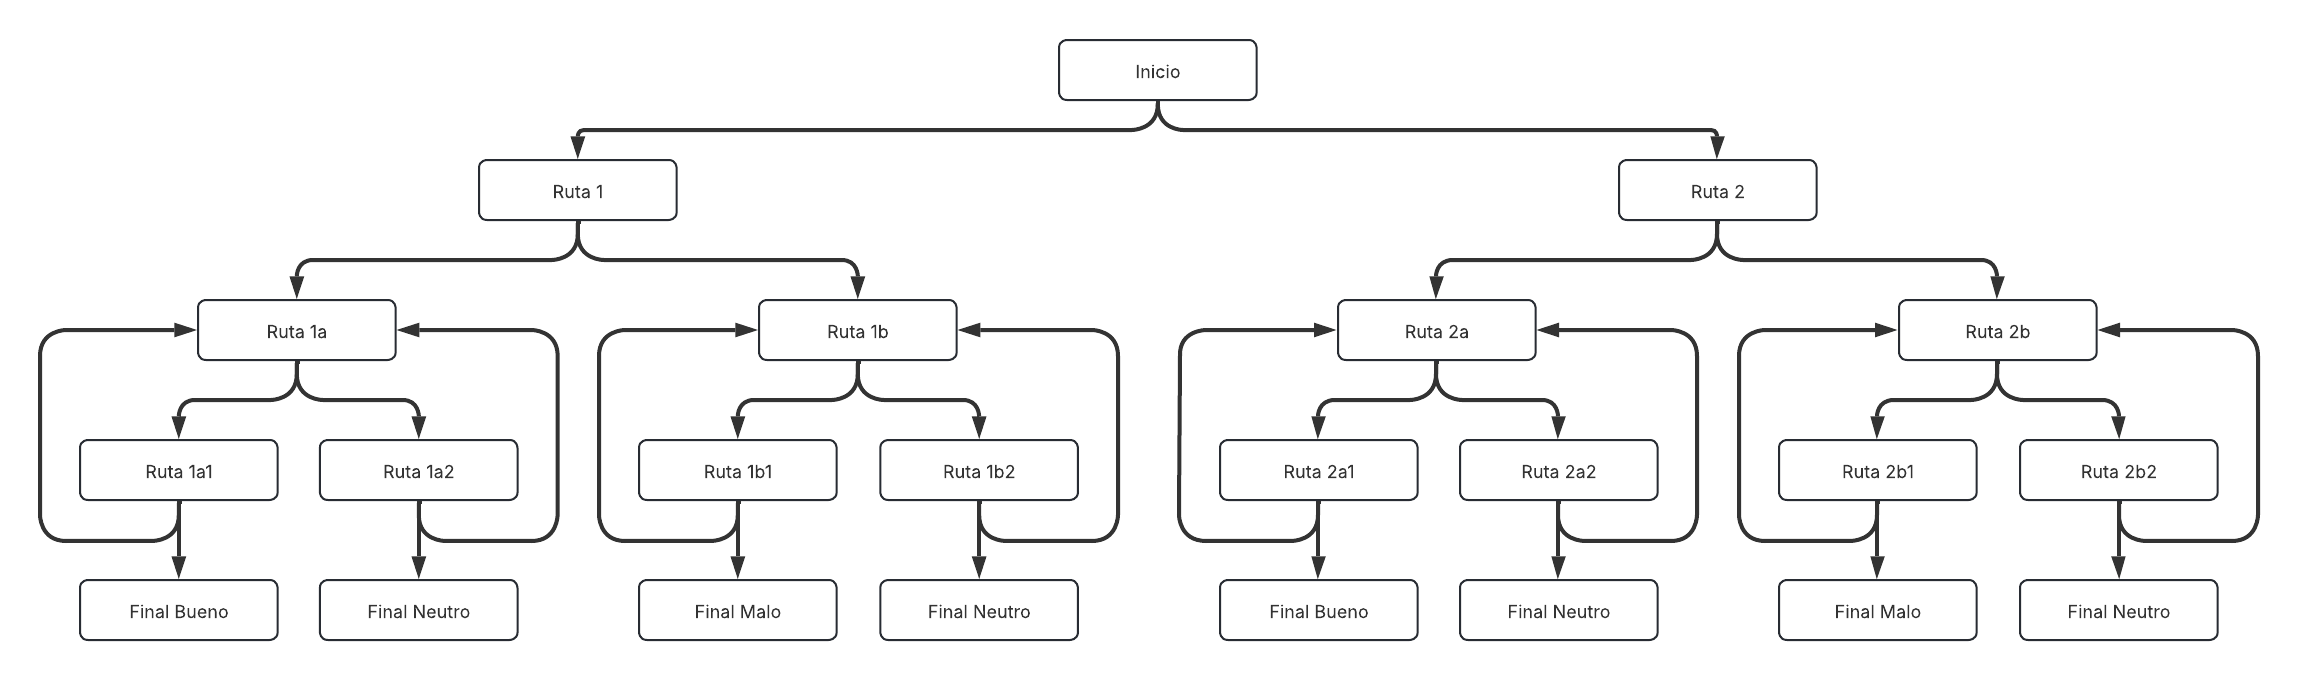
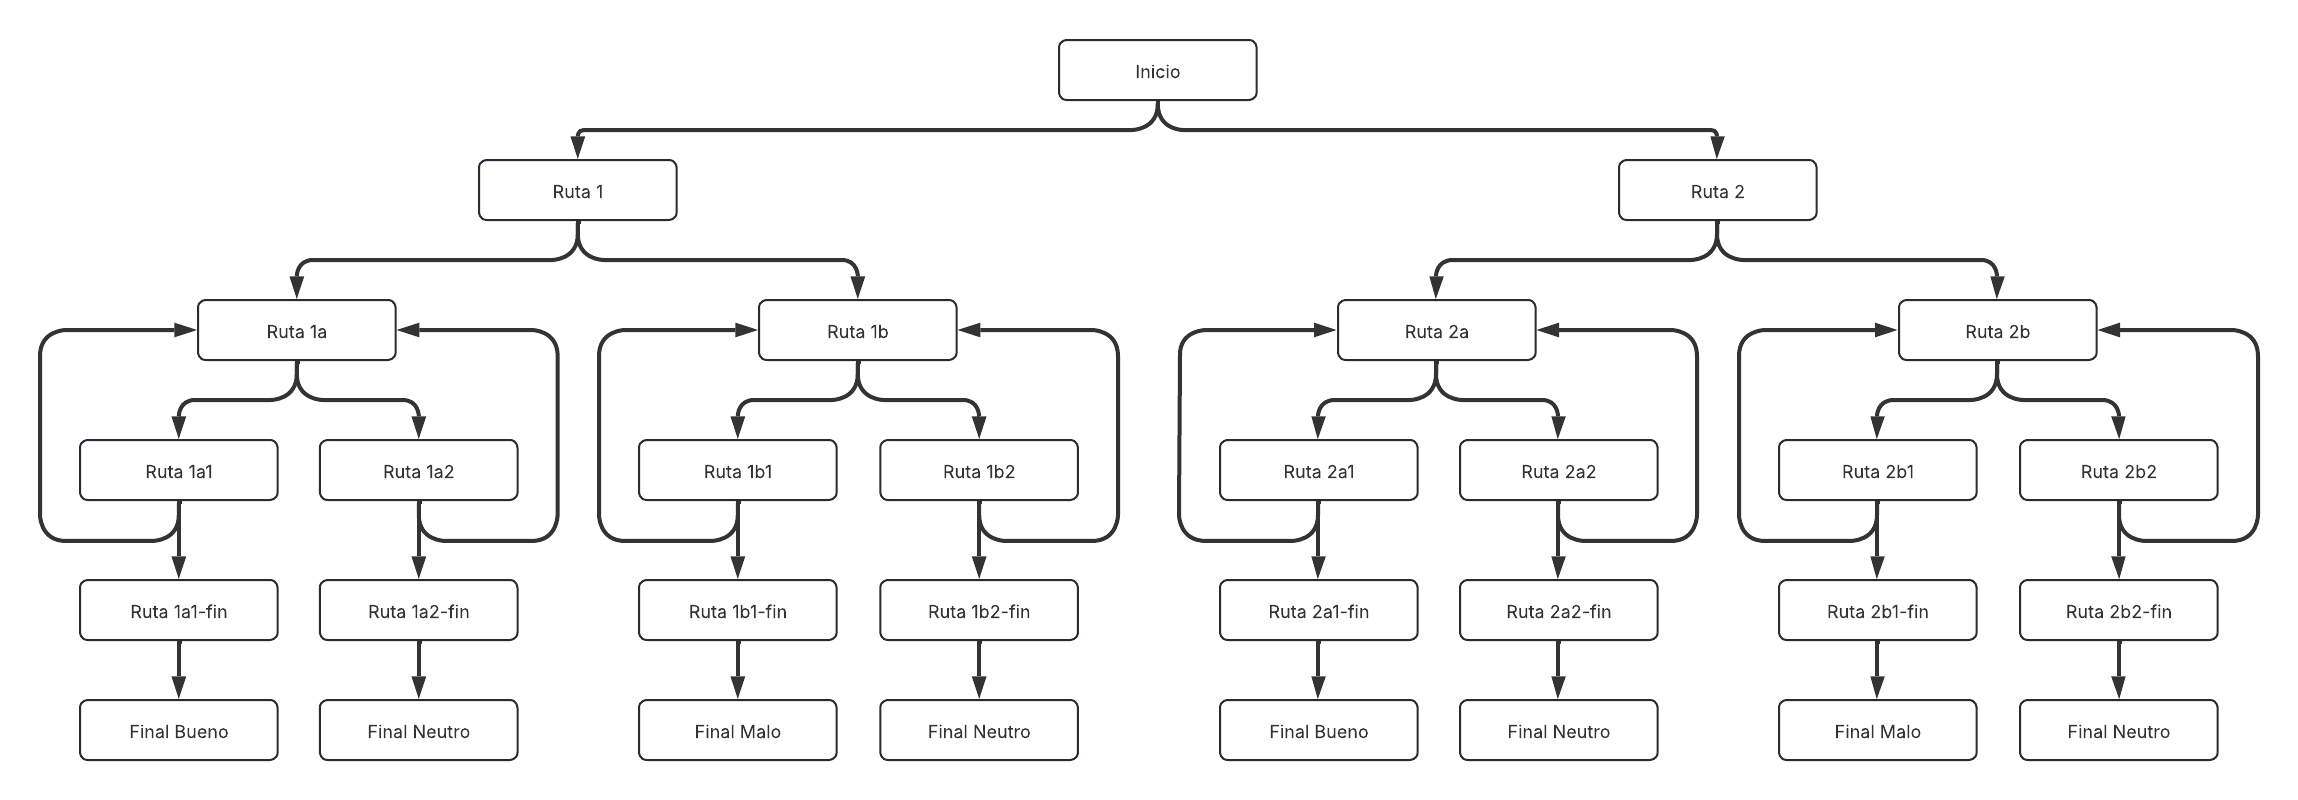
Desarrollo de historia y modificación de esquema

diff --git a/index.html b/index.html
@@ -7,12 +7,19 @@
 </head>
 <body>
     <h1>Mike: El Gato</h1>
-    <p>Inicio de la historia.</p>
+    <p>Esta es la historia de Mike, un gato callejero que ha rondeado regularmente las calles de una pequeña colonia,
+        cerca de una gran ciudad y un bosque profundo. Mike vive una vida tranquila, pero curiosa, jugando con los niños y las mascotas de la colonia.</p>
+    <p>En una noche peculiar, Mike oye ruidos preocupantes provenientes del bosque. 
+        Preocupado por los sonidos extraños, Mike debe tomar una decisión de manera urgente.</p>
 
     <h3>¿Qué hará Mike?</h3>
     <ul>
-        <li><a href="rutas/ruta1.html">Ruta 1</a></li>
-        <li><a href="rutas/ruta2.html">Ruta 2</a></li>
+        <li><a href="paginas/rutas/ruta1.html">Correr al bosque a investigar</a></li>
+        <li><a href="paginas/rutas/ruta2.html">Huír hacia la ciudad</a></li>
     </ul>
+
+    <footer>
+        <p>Creado por Diego Rizzo - 22955. <a href="https://github.com/diegorizzo/Lab2-Historia">Repositorio GitHub</a></p>
+    </footer>
 </body>
 </html>

diff --git a/paginas/rutas/ruta1a2-fin.html b/paginas/rutas/ruta1a2-fin.html
@@ -3,14 +3,13 @@
 <head>
     <meta charset="UTF-8">
     <meta name="viewport" content="width=device-width, initial-scale=1.0">
-    <title>Ruta 2b2</title>
+    <title>Ruta 1a2-Fin</title>
 </head>
 <body>
-    <h3>¿Qué hará Mike?</h3>
-    <ul>
-        <li><a href="ruta2b.html">Regresar</a></li>
-        <li><a href="ruta2b2-fin.html">Final Neutro</a></li>
-    </ul>
+    <h3>Decisión Tomada</h3>
+    <p>Texto pre-Final Neutro</p>
+    
+    <a href="../finales/final_neutro.html">Fin.</a>
 
     <footer>
         <p>Creado por Diego Rizzo - 22955. <a href="https://github.com/diegorizzo/Lab2-Historia">Repositorio GitHub</a></p>

diff --git a/paginas/rutas/ruta1b2-fin.html b/paginas/rutas/ruta1b2-fin.html
@@ -3,14 +3,13 @@
 <head>
     <meta charset="UTF-8">
     <meta name="viewport" content="width=device-width, initial-scale=1.0">
-    <title>Ruta 2b2</title>
+    <title>Ruta 1b2-Fin</title>
 </head>
 <body>
-    <h3>¿Qué hará Mike?</h3>
-    <ul>
-        <li><a href="ruta2b.html">Regresar</a></li>
-        <li><a href="ruta2b2-fin.html">Final Neutro</a></li>
-    </ul>
+    <h3>Decisión Tomada</h3>
+    <p>Texto pre-Final Neutro</p>
+    
+    <a href="../finales/final_neutro.html">Fin.</a>
 
     <footer>
         <p>Creado por Diego Rizzo - 22955. <a href="https://github.com/diegorizzo/Lab2-Historia">Repositorio GitHub</a></p>

diff --git a/paginas/rutas/ruta2a2-fin.html b/paginas/rutas/ruta2a2-fin.html
@@ -3,14 +3,13 @@
 <head>
     <meta charset="UTF-8">
     <meta name="viewport" content="width=device-width, initial-scale=1.0">
-    <title>Ruta 2b2</title>
+    <title>Ruta 2a2-Fin</title>
 </head>
 <body>
-    <h3>¿Qué hará Mike?</h3>
-    <ul>
-        <li><a href="ruta2b.html">Regresar</a></li>
-        <li><a href="ruta2b2-fin.html">Final Neutro</a></li>
-    </ul>
+    <h3>Decisión Tomada</h3>
+    <p>Texto pre-Final Neutro</p>
+    
+    <a href="../finales/final_neutro.html">Fin.</a>
 
     <footer>
         <p>Creado por Diego Rizzo - 22955. <a href="https://github.com/diegorizzo/Lab2-Historia">Repositorio GitHub</a></p>

diff --git a/paginas/rutas/ruta2b2-fin.html b/paginas/rutas/ruta2b2-fin.html
@@ -3,14 +3,13 @@
 <head>
     <meta charset="UTF-8">
     <meta name="viewport" content="width=device-width, initial-scale=1.0">
-    <title>Ruta 2b2</title>
+    <title>Ruta 2b2-Fin</title>
 </head>
 <body>
-    <h3>¿Qué hará Mike?</h3>
-    <ul>
-        <li><a href="ruta2b.html">Regresar</a></li>
-        <li><a href="ruta2b2-fin.html">Final Neutro</a></li>
-    </ul>
+    <h3>Decisión Tomada</h3>
+    <p>Texto pre-Final Neutro</p>
+    
+    <a href="../finales/final_neutro.html">Fin.</a>
 
     <footer>
         <p>Creado por Diego Rizzo - 22955. <a href="https://github.com/diegorizzo/Lab2-Historia">Repositorio GitHub</a></p>

diff --git a/paginas/rutas/ruta2a1-fin.html b/paginas/rutas/ruta2a1-fin.html
@@ -3,14 +3,13 @@
 <head>
     <meta charset="UTF-8">
     <meta name="viewport" content="width=device-width, initial-scale=1.0">
-    <title>Ruta 2b2</title>
+    <title>Ruta 2a1-Fin</title>
 </head>
 <body>
-    <h3>¿Qué hará Mike?</h3>
-    <ul>
-        <li><a href="ruta2b.html">Regresar</a></li>
-        <li><a href="ruta2b2-fin.html">Final Neutro</a></li>
-    </ul>
+    <h3>Decisión Tomada</h3>
+    <p>Texto pre-Final Bueno</p>
+    
+    <a href="../finales/final_bueno.html">Fin.</a>
 
     <footer>
         <p>Creado por Diego Rizzo - 22955. <a href="https://github.com/diegorizzo/Lab2-Historia">Repositorio GitHub</a></p>

diff --git a/paginas/rutas/ruta1b1-fin.html b/paginas/rutas/ruta1b1-fin.html
@@ -3,14 +3,13 @@
 <head>
     <meta charset="UTF-8">
     <meta name="viewport" content="width=device-width, initial-scale=1.0">
-    <title>Ruta 2b2</title>
+    <title>Ruta 1b1-Fin</title>
 </head>
 <body>
-    <h3>¿Qué hará Mike?</h3>
-    <ul>
-        <li><a href="ruta2b.html">Regresar</a></li>
-        <li><a href="ruta2b2-fin.html">Final Neutro</a></li>
-    </ul>
+    <h3>Decisión Tomada</h3>
+    <p>Texto pre-Final Malo</p>
+    
+    <a href="../finales/final_malo.html">Fin.</a>
 
     <footer>
         <p>Creado por Diego Rizzo - 22955. <a href="https://github.com/diegorizzo/Lab2-Historia">Repositorio GitHub</a></p>

diff --git a/paginas/rutas/ruta2b1-fin.html b/paginas/rutas/ruta2b1-fin.html
@@ -3,14 +3,13 @@
 <head>
     <meta charset="UTF-8">
     <meta name="viewport" content="width=device-width, initial-scale=1.0">
-    <title>Ruta 2b2</title>
+    <title>Ruta 2b1-Fin</title>
 </head>
 <body>
-    <h3>¿Qué hará Mike?</h3>
-    <ul>
-        <li><a href="ruta2b.html">Regresar</a></li>
-        <li><a href="ruta2b2-fin.html">Final Neutro</a></li>
-    </ul>
+    <h3>Decisión Tomada</h3>
+    <p>Texto pre-Final Malo</p>
+    
+    <a href="../finales/final_malo.html">Fin.</a>
 
     <footer>
         <p>Creado por Diego Rizzo - 22955. <a href="https://github.com/diegorizzo/Lab2-Historia">Repositorio GitHub</a></p>

diff --git a/paginas/rutas/ruta1a1-fin.html b/paginas/rutas/ruta1a1-fin.html
@@ -3,14 +3,13 @@
 <head>
     <meta charset="UTF-8">
     <meta name="viewport" content="width=device-width, initial-scale=1.0">
-    <title>Ruta 2b2</title>
+    <title>Ruta 1a1-Fin</title>
 </head>
 <body>
-    <h3>¿Qué hará Mike?</h3>
-    <ul>
-        <li><a href="ruta2b.html">Regresar</a></li>
-        <li><a href="ruta2b2-fin.html">Final Neutro</a></li>
-    </ul>
+    <h3>Decisión Tomada</h3>
+    <p>Texto pre-Final Bueno</p>
+
+    <a href="../finales/final_bueno.html">Fin.</a>
 
     <footer>
         <p>Creado por Diego Rizzo - 22955. <a href="https://github.com/diegorizzo/Lab2-Historia">Repositorio GitHub</a></p>

diff --git a/paginas/rutas/ruta1.html b/paginas/rutas/ruta1.html
@@ -6,10 +6,16 @@
     <title>Ruta 1</title>
 </head>
 <body>
+    <h1>Investigando el Bosque</h1>
+
     <h3>¿Qué hará Mike?</h3>
     <ul>
-        <li><a href="ruta1a.html">Ruta 1a</a></li>
-        <li><a href="ruta1b.html">Ruta 1b</a></li>
+        <li><a href="ruta1a.html">Investigar la cabaña</a></li>
+        <li><a href="ruta1b.html">Investigar el barranco</a></li>
     </ul>
+
+    <footer>
+        <p>Creado por Diego Rizzo - 22955. <a href="https://github.com/diegorizzo/Lab2-Historia">Repositorio GitHub</a></p>
+    </footer>
 </body>
 </html>

diff --git a/paginas/finales/final_neutro.html b/paginas/finales/final_neutro.html
@@ -6,6 +6,13 @@
     <title>Final Neutro</title>
 </head>
 <body>
-    
+    <h1>¡Llegaste a un final!</h1>
+
+    <p>Haz llegado al <strong>Final Neutro</strong> de la historia.</p>
+    <p>Mike ha regresado a su vida normal como gato callejero, pero no olvidará esta aventura.</p>
+
+    <footer>
+        <p>Creado por Diego Rizzo - 22955. <a href="https://github.com/diegorizzo/Lab2-Historia">Repositorio GitHub</a></p>
+    </footer>
 </body>
 </html>

diff --git a/paginas/finales/final_bueno.html b/paginas/finales/final_bueno.html
@@ -6,6 +6,13 @@
     <title>Final Bueno</title>
 </head>
 <body>
-    
+    <h1>¡Felicidades!</h1>
+
+    <p>Haz llegado al <strong>Final Bueno</strong> de la historia.</p>
+    <p>Haz guiado a Mike a una nueva familia, quienes le brindarán mucho cariño y una mejor vida.</p>
+
+    <footer>
+        <p>Creado por Diego Rizzo - 22955. <a href="https://github.com/diegorizzo/Lab2-Historia">Repositorio GitHub</a></p>
+    </footer>
 </body>
 </html>
